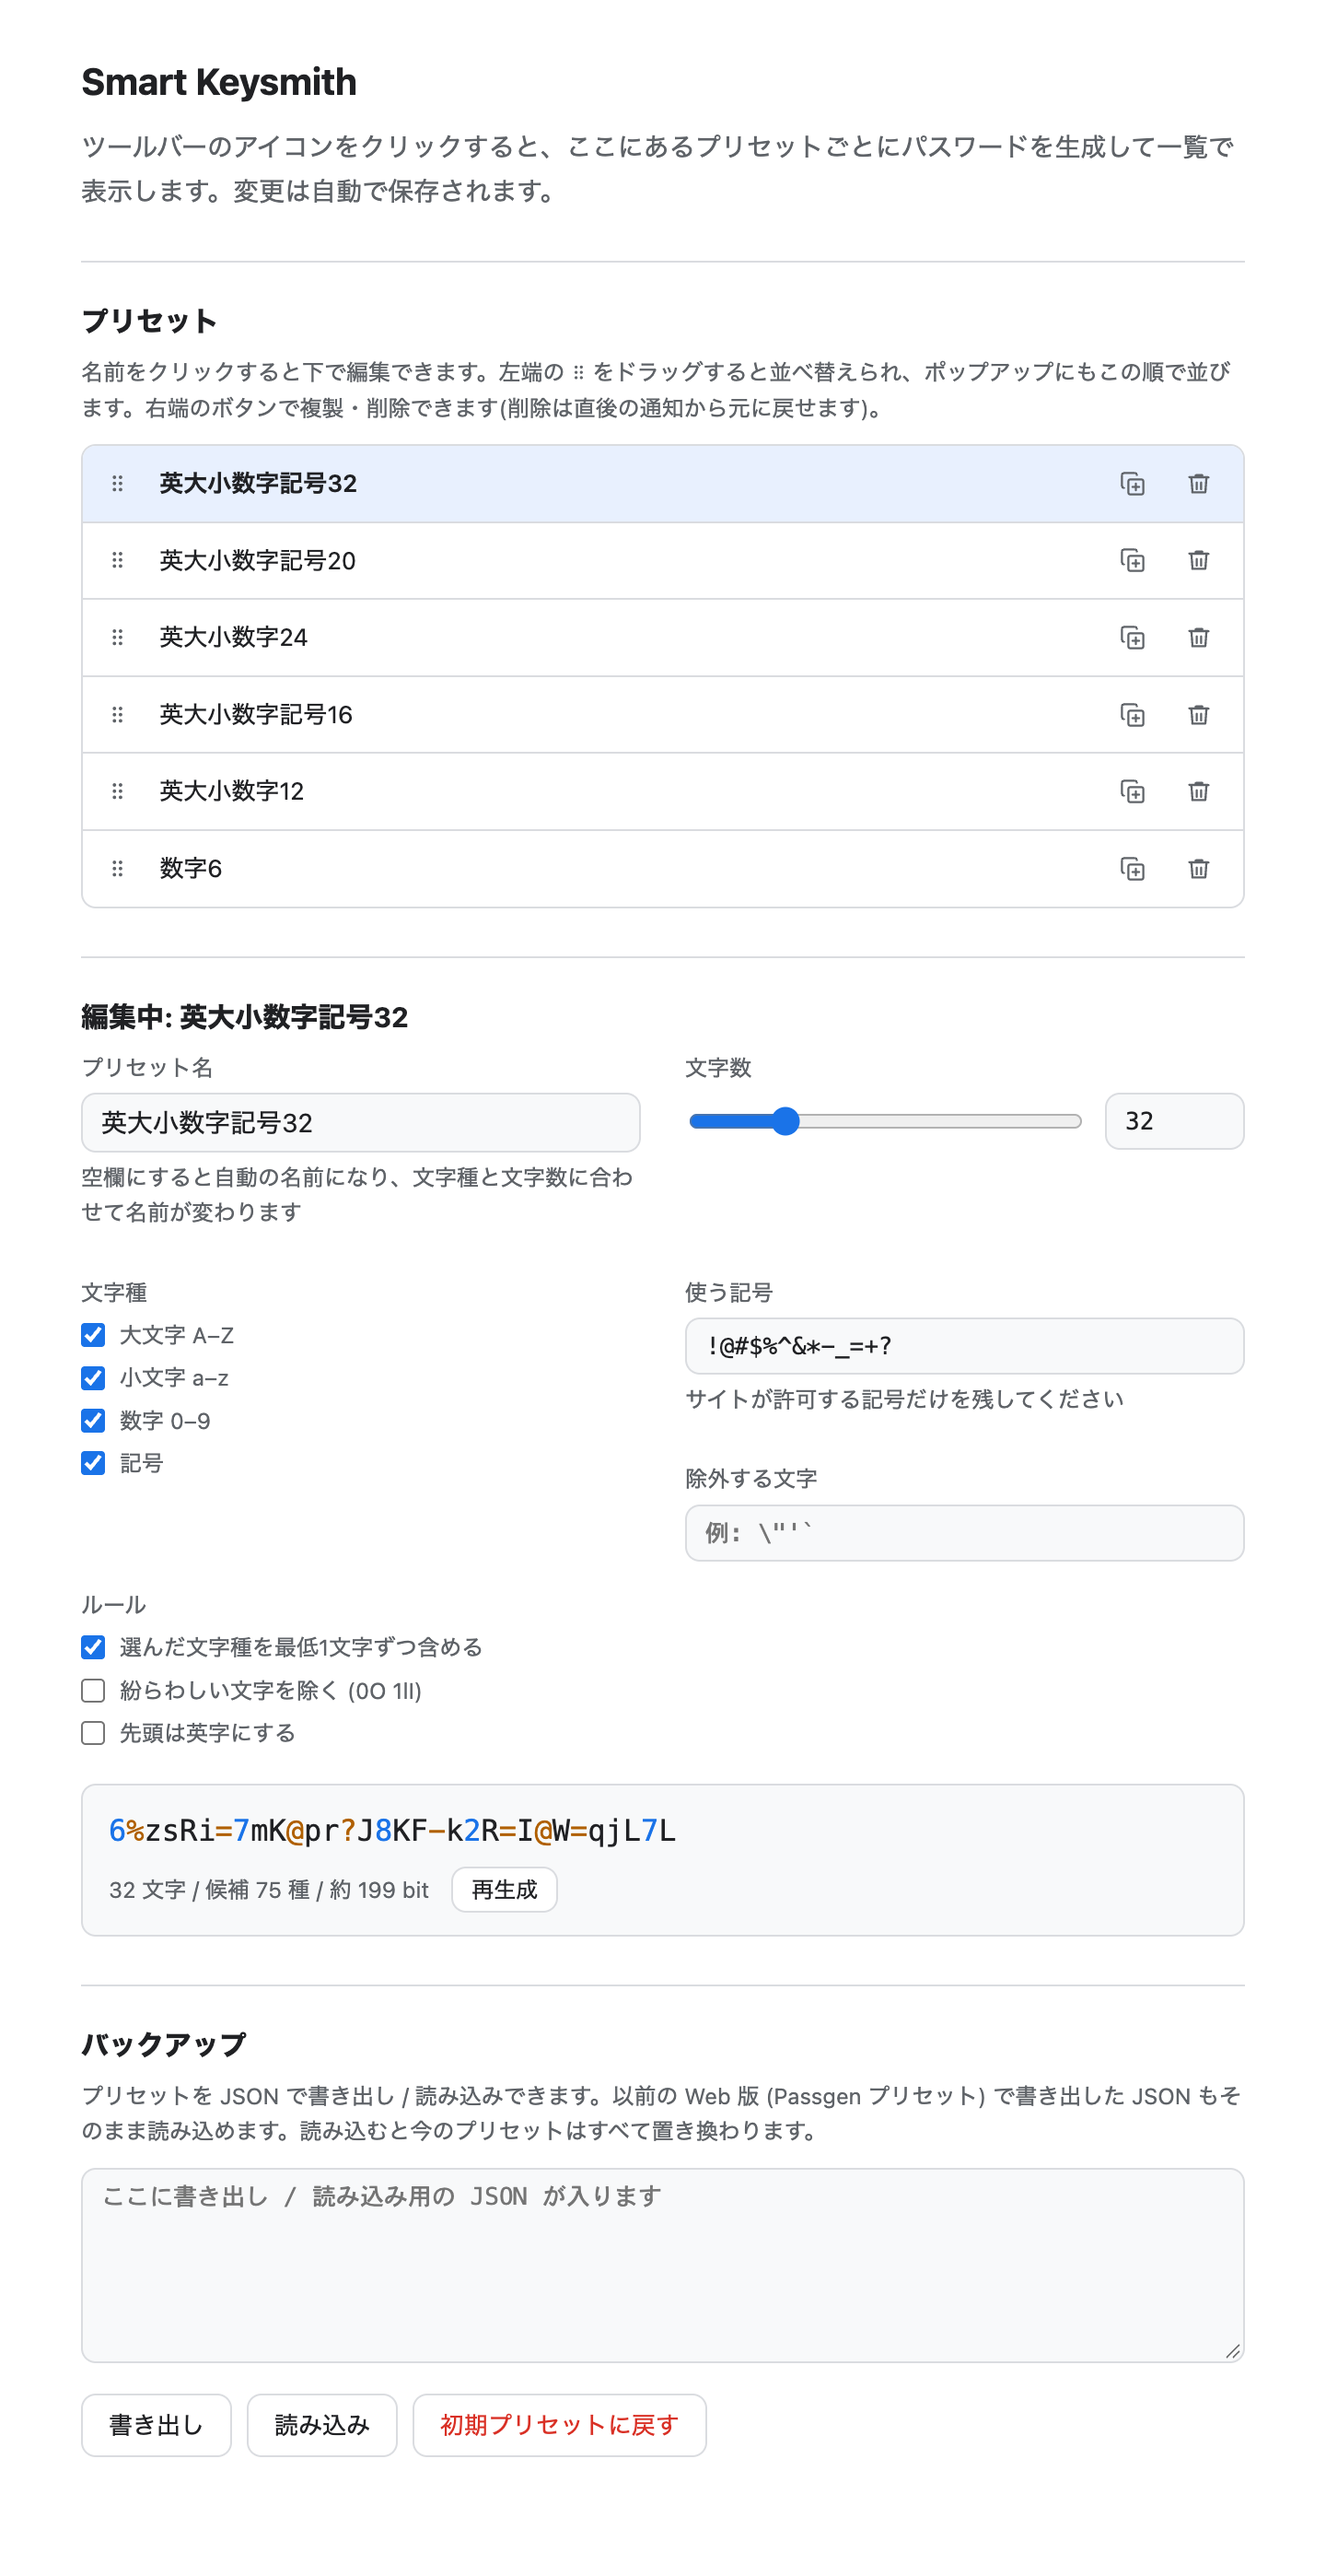
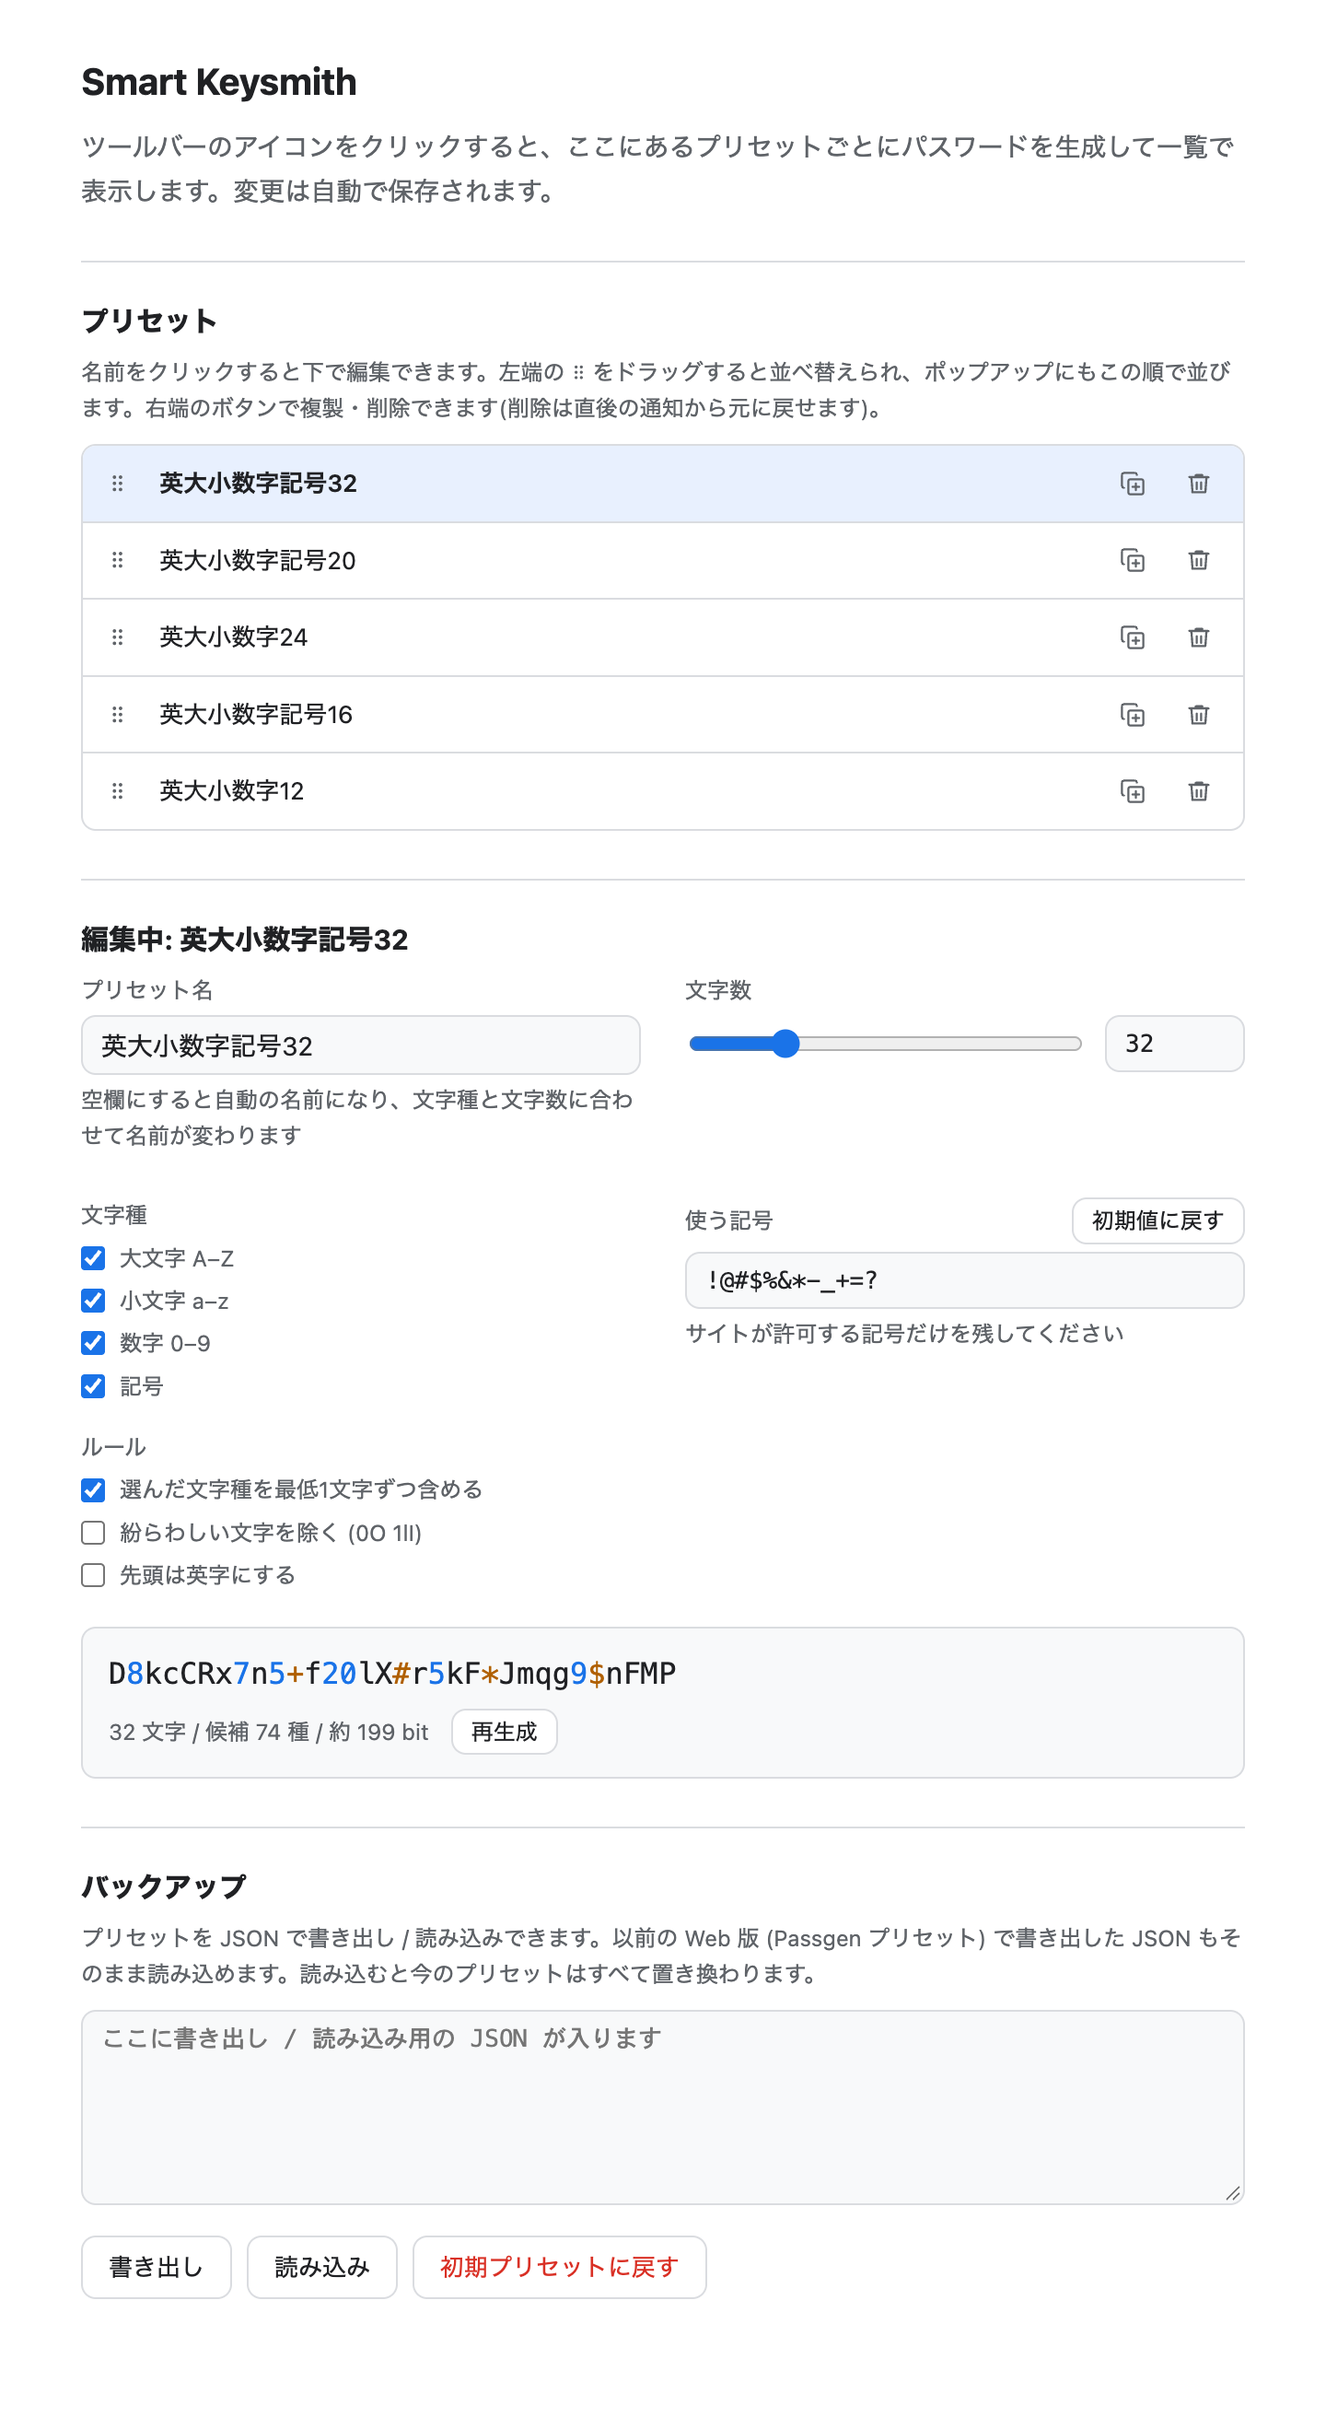
Smart Keysmith 1.0.2: 記号まわりの見直し
- 初期プリセットの記号から ^ を外した (!@#$%&*-_+=?)。^ を受け付けないサイトがあるため
- 使う記号をプリセットごとに指定できるので、「除外する文字」をフォーム・設定・生成処理ごと削除した
- ほぼ使わない初期プリセット「数字6」を削除した
- 記号にチェックがあるのに使う記号が空のとき、記号欄の下に警告を出す。
  複製したプリセットで記号が入らないことに気づかなかったため。保存は止めない
- 「使う記号」の右端に「初期値に戻す」ボタンを付けた。押すと初期プリセットの記号になり、
  通知の「元に戻す」で差し戻せる

README のスクリーンショットも新しい初期プリセットで撮り直した。

diff --git a/options.js b/options.js
@@ -1,4 +1,4 @@
-import { DEFAULT_PRESETS, findPreset, normalizePreset, generate, poolSize, presetLabel } from "./generator.js";
+import { COMMON_SYM, DEFAULT_PRESETS, findPreset, normalizePreset, generate, poolSize, presetLabel } from "./generator.js";
 import { loadSettings } from "./settings.js";
 
 const $ = (id) => document.getElementById(id);
@@ -161,14 +161,20 @@ function writeForm(p) {
   $("lenRange").value = p.len;
   CHECKS.forEach((k) => ($(k).checked = p[k]));
   $("symbols").value = p.symbols;
-  $("exclude").value = p.exclude;
   $("symbols").disabled = !p.sym;
+  $("symResetBtn").disabled = !p.sym;
 }
 
 function readForm() {
-  const o = { id: editingId, name: $("name").value, len: $("lenNum").value, symbols: $("symbols").value, exclude: $("exclude").value };
+  const o = { id: editingId, name: $("name").value, len: $("lenNum").value, symbols: $("symbols").value };
   CHECKS.forEach((k) => (o[k] = $(k).checked));
   return normalizePreset(o);
+}
+
+// 記号にチェックがあっても使う記号が空だと、名前に「記号」と付くのに記号が入らない。
+// 生成はできるので保存は止めず、警告だけ出す (複製したプリセットで気づかなかったことがある)
+function renderSymWarn(p) {
+  $("symWarn").textContent = p.sym && !p.symbols.trim() ? "使う記号が空なので、記号は入りません" : "";
 }
 
 function renderPreview(p) {
@@ -199,6 +205,7 @@ function selectForEdit(id) {
   editingId = id;
   writeForm(editing());
   renderList();
+  renderSymWarn(editing());
   renderPreview(editing());
 }
 
@@ -209,10 +216,12 @@ async function onFormInput(event) {
   const followName = event?.target !== $("name") && !editing().name;
   if (followName) $("name").value = "";
   $("symbols").disabled = !$("sym").checked;
+  $("symResetBtn").disabled = !$("sym").checked;
   const p = readForm();
   // 空欄のときに出る自動の名前は、文字種や文字数を変えるたびに追従させる
   $("name").placeholder = presetLabel({ ...p, name: "" });
   if (followName) $("name").value = presetLabel(p);
+  renderSymWarn(p);
   if (!renderPreview(p)) return;
   presets[presets.findIndex((x) => x.id === editingId)] = p;
   renderList();
@@ -236,8 +245,24 @@ $("name").onchange = () => {
 };
 // 範囲外の数字を打ったまま離れたら、保存済みの値に戻す
 $("lenNum").onchange = () => ($("lenNum").value = editing().len);
-["name", "symbols", "exclude"].forEach((k) => ($(k).oninput = onFormInput));
+["name", "symbols"].forEach((k) => ($(k).oninput = onFormInput));
 CHECKS.forEach((k) => ($(k).onchange = onFormInput));
+// 複製したあとで元の記号が分からなくなったときに、初期プリセットの記号へ戻す。
+// 手で絞った記号を上書きするので、通知の「元に戻す」で差し戻せるようにする
+$("symResetBtn").title = `使う記号を ${COMMON_SYM} にする`;
+$("symResetBtn").onclick = () => {
+  const { id, symbols } = editing();
+  if (symbols === COMMON_SYM) return;
+  $("symbols").value = COMMON_SYM;
+  onFormInput({ target: $("symbols") });
+  toast("使う記号を初期値に戻しました", async () => {
+    const p = presets.find((x) => x.id === id);
+    if (!p) return;
+    p.symbols = symbols;
+    await save();
+    if (editingId === id) selectForEdit(id);
+  });
+};
 $("regenBtn").onclick = () => renderPreview(readForm());
 
 // 行のボタンからは確認なしで実行する。行に紐づく操作は添字ではなく id で引く

diff --git a/generator.js b/generator.js
@@ -5,19 +5,18 @@ const UP = "ABCDEFGHIJKLMNOPQRSTUVWXYZ";
 const LO = "abcdefghijklmnopqrstuvwxyz";
 const DG = "0123456789";
 // 多くのサイトで通る記号。引用符・バックスラッシュ・括弧・<> などは弾くサイトがあるので入れない
-export const COMMON_SYM = "!@#$%^&*-_=+?";
+export const COMMON_SYM = "!@#$%&*-_+=?";
 const AMBIG = "0O1lI";
 export const MIN_LEN = 4;
 export const MAX_LEN = 128;
 
 // name が空のプリセットは presetLabel() が文字種と文字数から名前を作る (「英大小数字記号32」など)
 export const DEFAULT_PRESETS = [
-  { id: "max32", name: "", len: 32, upper: true, lower: true, digit: true, sym: true, symbols: COMMON_SYM, exclude: "", each: true, ambig: false, alphaStart: false },
-  { id: "std20", name: "", len: 20, upper: true, lower: true, digit: true, sym: true, symbols: COMMON_SYM, exclude: "", each: true, ambig: false, alphaStart: false },
-  { id: "nosym24", name: "", len: 24, upper: true, lower: true, digit: true, sym: false, symbols: "", exclude: "", each: true, ambig: false, alphaStart: false },
-  { id: "max16", name: "", len: 16, upper: true, lower: true, digit: true, sym: true, symbols: "!@#$%&*-_", exclude: "", each: true, ambig: false, alphaStart: true },
-  { id: "bank12", name: "", len: 12, upper: true, lower: true, digit: true, sym: false, symbols: "", exclude: "", each: true, ambig: true, alphaStart: true },
-  { id: "pin6", name: "", len: 6, upper: false, lower: false, digit: true, sym: false, symbols: "", exclude: "", each: false, ambig: false, alphaStart: false },
+  { id: "max32", name: "", len: 32, upper: true, lower: true, digit: true, sym: true, symbols: COMMON_SYM, each: true, ambig: false, alphaStart: false },
+  { id: "std20", name: "", len: 20, upper: true, lower: true, digit: true, sym: true, symbols: COMMON_SYM, each: true, ambig: false, alphaStart: false },
+  { id: "nosym24", name: "", len: 24, upper: true, lower: true, digit: true, sym: false, symbols: "", each: true, ambig: false, alphaStart: false },
+  { id: "max16", name: "", len: 16, upper: true, lower: true, digit: true, sym: true, symbols: "!@#$%&*-_", each: true, ambig: false, alphaStart: true },
+  { id: "bank12", name: "", len: 12, upper: true, lower: true, digit: true, sym: false, symbols: "", each: true, ambig: true, alphaStart: true },
 ];
 
 // 未知の id (削除済みなど) は先頭に戻す
@@ -37,7 +36,6 @@ export function normalizePreset(x) {
     digit: !!x?.digit,
     sym: !!x?.sym,
     symbols: String(x?.symbols ?? ""),
-    exclude: String(x?.exclude ?? ""),
     each: !!x?.each,
     ambig: !!x?.ambig,
     alphaStart: !!x?.alphaStart,
@@ -58,8 +56,7 @@ export function presetLabel(p) {
 const uniq = (s) => [...new Set(s)].join("");
 
 function filt(set, o) {
-  const ex = (o.exclude ?? "") + (o.ambig ? AMBIG : "");
-  return uniq([...set].filter((c) => !ex.includes(c) && c !== " ").join(""));
+  return uniq([...set].filter((c) => !(o.ambig && AMBIG.includes(c)) && c !== " ").join(""));
 }
 
 // 0..n-1 を偏りなく返す (剰余の偏りを棄却法で避ける)

diff --git a/options.html b/options.html
@@ -39,11 +39,13 @@
             <label class="check"><input type="checkbox" id="sym" /> 記号</label>
           </div>
           <div class="field">
-            <label for="symbols">使う記号</label>
+            <div class="label-row">
+              <label for="symbols">使う記号</label>
+              <button id="symResetBtn" class="small">初期値に戻す</button>
+            </div>
             <input type="text" id="symbols" spellcheck="false" autocomplete="off" />
             <span class="hint">サイトが許可する記号だけを残してください</span>
-            <label for="exclude" class="spaced">除外する文字</label>
-            <input type="text" id="exclude" spellcheck="false" autocomplete="off" placeholder="例: \&quot;'`" />
+            <span class="warn" id="symWarn"></span>
           </div>
           <div class="field wide">
             <span class="label">ルール</span>

diff --git a/options.css b/options.css
@@ -72,13 +72,10 @@ section {
 }
 
 .label,
-.field > label {
+.field > label,
+.label-row > label {
   font-size: 12px;
   color: var(--muted);
-}
-
-.spaced {
-  margin-top: 10px;
 }
 
 button {
@@ -98,6 +95,12 @@ button:hover {
 
 button.danger {
   color: var(--danger);
+}
+
+.label-row {
+  display: flex;
+  align-items: center;
+  justify-content: space-between;
 }
 
 button.small {
@@ -340,6 +343,16 @@ input:disabled {
 }
 
 .err:empty {
+  display: none;
+}
+
+.warn {
+  font-size: 12px;
+  line-height: 1.6;
+  color: var(--warn);
+}
+
+.warn:empty {
   display: none;
 }
 

diff --git a/.claude/skills/smart-keysmith/SKILL.md b/.claude/skills/smart-keysmith/SKILL.md
@@ -88,13 +88,21 @@ Web 版の書き出し(`id` なしの配列)をそのまま読めるのは移行
 - 元に戻すのは**消した1件を元の位置へ差し戻すだけ**(配列ごとのスナップショット復元にしない)。削除のあとに
   別の編集をしてから「元に戻す」を押しても、その編集を巻き戻さないため。消した行が編集中だったなら、
   戻した行をまた編集中にする。最後の1件の削除ボタンは無効(ポップアップが空になる)。
+- 記号にチェックがあるのに使う記号が空(空白だけを含む)だと、名前に「記号」と付くのに記号が入らない。
+  記号なしのプリセットを複製して記号を足したときに気づかなかったことがあるので、記号欄の下に警告
+  (`renderSymWarn`)を出す。生成はできるので保存は止めない(ユーザーの要望:弾くまではしない)。
+- 「使う記号」の右端の「初期値に戻す」ボタンは、使う記号を `COMMON_SYM` にする(複製したあと元の記号を
+  思い出せないことがあるという要望)。手で絞った記号を上書きするので、削除と同じく確認なしで実行して
+  toast の「元に戻す」で差し戻す。差し戻しは押したときのプリセット id で引く(別のプリセットに移っていても
+  そのプリセットだけ戻す)。記号にチェックがないときは記号欄と一緒に無効。
 - 読み込み・初期化の確認は `confirm()` ではなく画面内の確認欄で出す。
 
 ## 生成アルゴリズム(Web 版と同一)
 
-- 初期プリセットの記号は `COMMON_SYM`(`!@#$%^&*-_=+?`)まで。Web 版の「最強 32」(初期プリセットの先頭)は ASCII 記号
+- 初期プリセットの記号は `COMMON_SYM`(`!@#$%&*-_+=?`)まで。Web 版の「最強 32」(初期プリセットの先頭)は ASCII 記号
   32 種すべてを使っていたが、引用符・`\`・括弧・`<>` などを弾くサイトが多く、使いにくかったので絞った
-  (ユーザーの要望)。強さは長さで稼ぐ(32 文字で約 199 bit)。
+  (ユーザーの要望)。さらに `^` も弾くサイトがあるので外した(2026-10-20)。`+ = ? .` は
+  ユーザーの感覚では多くのサイトで通る。強さは長さで稼ぐ(32 文字で約 199 bit)。
 
 - `rand(n)` は Uint32 の棄却法で剰余の偏りを消している。`Math.random` に置き換えない。
 - `each`(各文字種を最低1文字)は、位置をシャッフルして文字種ごとに別の位置へ1文字ずつ

diff --git a/CHANGELOG.md b/CHANGELOG.md
@@ -5,6 +5,26 @@
 
 ## [Unreleased]
 
+## [1.0.2] - 2026-10-20
+
+### Added
+
+- オプション画面で、文字種の「記号」にチェックがあるのに使う記号が空のとき、記号の欄の下に警告を出す
+  (保存は止めない)
+- オプション画面の「使う記号」の右端に「初期値に戻す」ボタン。押すと使う記号を初期プリセットの記号
+  (`!@#$%&*-_+=?`) にする。直後の通知の「元に戻す」で元の記号に戻せる
+
+### Changed
+
+- 初期プリセット(英大小数字記号32 / 20)の記号から `^` を外した(`!@#$%&*-_+=?`)。`^` を受け付けないサイトがあるため。
+  保存済みのプリセットは変わらない
+
+### Removed
+
+- 初期プリセットの「数字6」。保存済みのプリセットからは消えない
+- オプション画面の「除外する文字」。使う記号はプリセットごとに指定できるので不要になった。
+  保存済みのプリセットや読み込んだ JSON に入っている除外する文字は無視する
+
 ## [1.0.1] - 2026-10-18
 
 ### Changed
